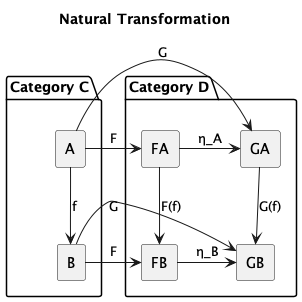
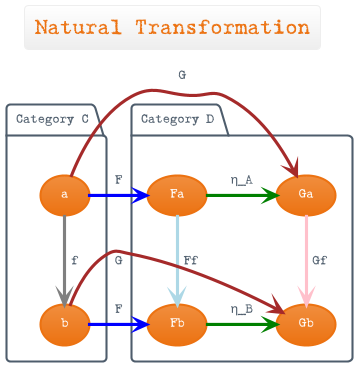
Update diagrams

Changed region(s): [[0.0, 0.2086, 1.0, 1.0], [0.0894, 0.0298, 0.8642, 0.1192], [0.4768, 0.149, 0.596, 0.2086]]

diff --git a/docs/05-foldmap.md b/docs/05-foldmap.md
@@ -1,5 +1,7 @@
 ```plantuml
 @startuml
+!theme aws-orange
+skinparam defaultFontName "Gabriele Black Ribbon FG"
 title foldMap: Natural Transformation via Interpreter transforming DSL into IO operations
 
 ' DSL pipeline created by flatMap and liftF
@@ -22,23 +24,23 @@ package "Target Pipeline (IO)"  as io{
 
 
 ' NT transforms DSL pipeline into Target pipeline via Interpreter
-readFromKafka   -r->   targetReadFromKafka : "NT"
-logMessage      -r->   targetLogMessage : "NT"
-transformData   -r->   targetTransformData : "NT"
-logMessage2     -r->   targetLogMessage2 : "NT"
-writeToDatabase -r->   targetWriteToDatabase : "NT"
+readFromKafka   -r->   targetReadFromKafka : "                Natural transformation                 "
+logMessage      -r->   targetLogMessage : "              Natural transformation                  "
+transformData   -r->   targetTransformData : "            Natural transformation               "
+logMessage2     -r->   targetLogMessage2 : "            Natural transformation             "
+writeToDatabase -r->   targetWriteToDatabase : "            Natural transformation               "
 
-targetReadFromKafka -d--> targetLogMessage : "flatMap"
-targetLogMessage -d--> targetTransformData : "flatMap"
-targetTransformData -d--> targetLogMessage2 : "flatMap"
-targetLogMessage2 -d--> targetWriteToDatabase : "flatMap"
+targetReadFromKafka -d[#lightblue]-> targetLogMessage : "flatMap"
+targetLogMessage -d[#lightblue]-> targetTransformData : "flatMap"
+targetTransformData -d[#lightblue]-> targetLogMessage2 : "flatMap"
+targetLogMessage2 -d[#lightblue]-> targetWriteToDatabase : "flatMap"
 
 
 ' FlatMap chain in the DSL pipeline
-readFromKafka -d--> logMessage : "flatMap"
-logMessage -d--> transformData : "flatMap"
-transformData -d--> logMessage2 : "flatMap"
-logMessage2 -d--> writeToDatabase : "flatMap"
+readFromKafka -d[#lightblue]-> logMessage : "flatMap"
+logMessage -d[#lightblue]-> transformData : "flatMap"
+transformData -d[#lightblue]-> logMessage2 : "flatMap"
+logMessage2 -d[#lightblue]-> writeToDatabase : "flatMap"
 
 @enduml
 ```

diff --git a/docs/02-nt.md b/docs/02-nt.md
@@ -1,33 +1,35 @@
 ```plantuml
 @startuml
+!theme aws-orange
+skinparam defaultFontName "Gabriele Black Ribbon FG"
 title Natural Transformation
 
 package "Category C" {
-  rectangle A
-  rectangle B
-  A --> B : f
+  (a)
+  (b)
+  a -[#gray]-> b : f
 }
 
 package "Category D" {
-  rectangle FA
-  rectangle FB
-  rectangle GA
-  rectangle GB
-  FA --> FB : "F(f)"
-  GA --> GB : "G(f)"
+  (Fa)
+  (Fb)
+  (Ga)
+  (Gb)
+  Fa -[#lightblue]-> Fb : Ff
+  Ga -[#pink]-> Gb : Gf
 }
 
 ' Functor F mappings
-A -r--> FA : F
-B -r--> FB : F
+a -r[#blue]-> Fa : F
+b -r[#blue]-> Fb : F
 
 ' Functor G mappings
-A -r--> GA : G
-B -r--> GB : G
+a -r[#brown]-> Ga : G
+b -r[#brown]-> Gb : G
 
 ' Natural transformation
-FA -r--> GA : η_A
-FB -r--> GB : η_B
+Fa -r[#green]-> Ga : η_A
+Fb -r[#green]-> Gb : η_B
 
 @enduml
 ```

diff --git a/docs/03-monad.md b/docs/03-monad.md
@@ -1,20 +1,22 @@
 ```plantuml
 @startuml
+!theme aws-orange
+skinparam defaultFontName "Gabriele Black Ribbon FG"
 title Monad
 
 package "Monad" {
-  circle "a:A" as a
-  rectangle "M[A]" as pure
-  rectangle "M[B]" as f
-  rectangle "M[C]" as g
+  (a)
+  (M[A]) as pure
+  (M[B]) as mb
+  (M[C]) as mc
 }
 
 ' Value lifted into monad
-a --> pure : "pure(a)"
+a -[#gray]-> pure : "pure(a)"
 
 ' Chaining operations with flatMap
-pure --> f : "flatMap(f: A=> B)"
-f --> g : "flatMap(g: B => C)"
+pure -[#gray]-> mb : "flatMap(f: A=> M[B])"
+mb -[#gray]-> mc : "flatMap(g: B => M[C])"
 
 @enduml
 ```

diff --git a/docs/01-functor.md b/docs/01-functor.md
@@ -1,21 +1,23 @@
 ```plantuml
 @startuml
+!theme aws-orange
+skinparam defaultFontName "Gabriele Black Ribbon FG"
 title Functor
 
 package "Category C" as C{
-  rectangle A
-  rectangle B
-  A --> B : f
+  (a)
+  (b)
+  a -[#gray]-> b : f
 }
 
 package "Category D" as D{
-  rectangle FA
-  rectangle FB
-  FA --> FB : "F(f)"
+  (Fa)
+  (Fb)
+  Fa -[#lightblue]-> Fb : "Ff"
 }
 
 ' Functor F mappings
-A -r--> FA : F
-B -r--> FB : F
+a -r[#blue]-> Fa : F
+b -r[#blue]-> Fb : F
 @enduml
 ```

diff --git a/docs/04-free.md b/docs/04-free.md
@@ -1,5 +1,7 @@
 ```plantuml
 @startuml
+!theme aws-orange
+skinparam defaultFontName "Gabriele Black Ribbon FG"
 title ADT, Free Monad, DSL, and Interpreters with foldMap
 
 package "Free Monad & DSL" {
